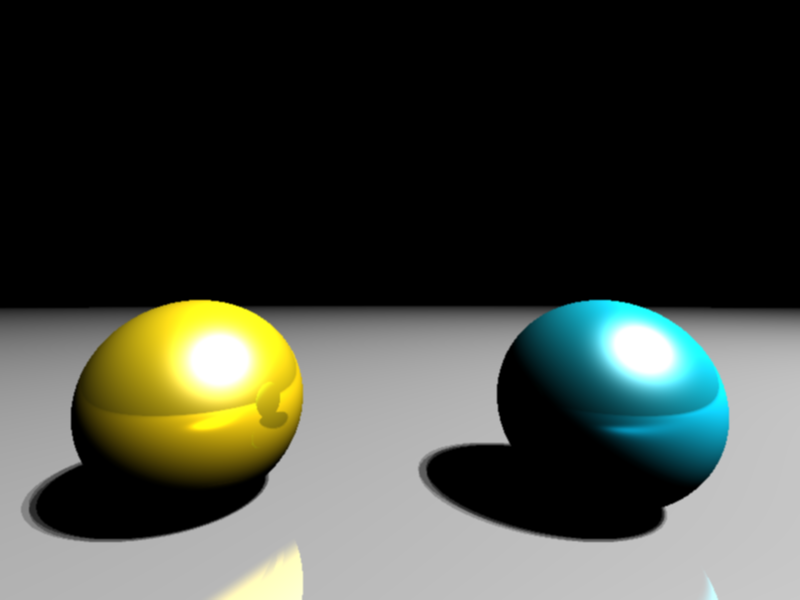
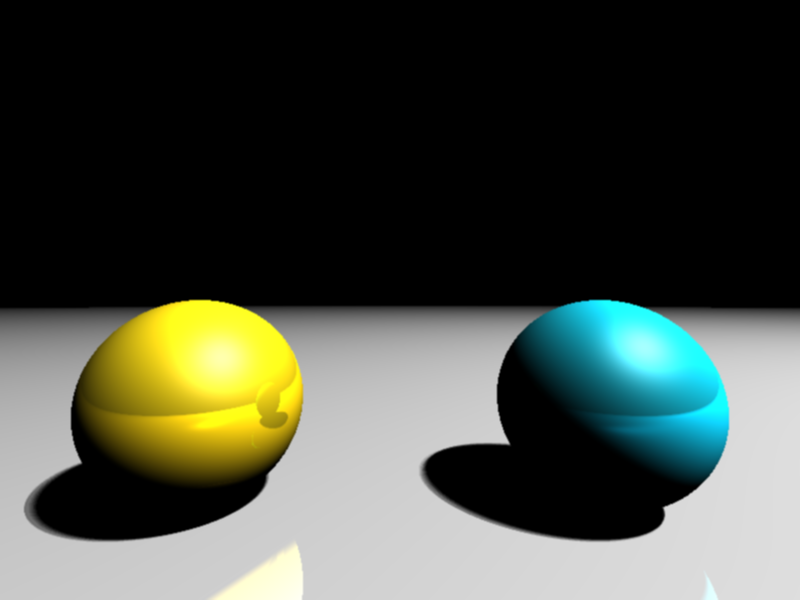
Made it slower

diff --git a/raytracing.py b/raytracing.py
@@ -57,10 +57,18 @@ objects = [
     { 'center': np.array([0, -9000, 0]), 'radius': 8999, 'ambient': np.array([0, 0, 0]), 'diffuse': np.array([0.6, 0.6, 0.6]), 'specular': np.array([1, 1, 1]), 'shininess': 100, 'reflection': 5 }
 ]
 #Declaes the lights in the scene.
-lights = [  { 'position': np.array([9.5,16,6.5]), 'ambient': np.array([0.1, 0.1, 0.1]), 'diffuse': np.array([0.5, 0.5, 0.5]), 'specular': np.array([1, 1, 1]) },
-            { 'position': np.array([10.5,16,5.5]), 'ambient': np.array([0.1, 0.1, 0.1]), 'diffuse': np.array([0.5, 0.5, 0.5]), 'specular': np.array([1, 1, 1]) },
-            { 'position': np.array([9.5,16,5.5]), 'ambient': np.array([0.1, 0.1, 0.1]), 'diffuse': np.array([0.5, 0.5, 0.5]), 'specular': np.array([1, 1, 1]) },
-            { 'position': np.array([10.5,16,6.5]), 'ambient': np.array([0.1, 0.1, 0.1]), 'diffuse': np.array([0.5, 0.5, 0.5]), 'specular': np.array([1, 1, 1]) },
+lights = [  { 'position': np.array([10.125,16,5.5]), 'ambient': np.array([0.125, 0.125, 0.125]), 'diffuse': np.array([0.25, 0.25, 0.25]), 'specular': np.array([0.125, 0.125, 0.125]) },
+            { 'position': np.array([10.25,16,5.625]), 'ambient': np.array([0.125, 0.125, 0.125]), 'diffuse': np.array([0.25, 0.25, 0.25]), 'specular': np.array([0.125, 0.125, 0.125]) },
+            { 'position': np.array([10.375,16,5.75]), 'ambient': np.array([0.125, 0.125, 0.125]), 'diffuse': np.array([0.25, 0.25, 0.25]), 'specular': np.array([0.125, 0.125, 0.125]) },
+            { 'position': np.array([10.5,16,5.875]), 'ambient': np.array([0.125, 0.125, 0.125]), 'diffuse': np.array([0.25, 0.25, 0.25]), 'specular': np.array([0.125, 0.125, 0.125]) },
+            { 'position': np.array([10,16,6]), 'ambient': np.array([0.125, 0.125, 0.125]), 'diffuse': np.array([0.25, 0.25, 0.25]), 'specular': np.array([0.125, 0.125, 0.125]) },
+            { 'position': np.array([9.875,16,6.125]), 'ambient': np.array([0.125, 0.125, 0.125]), 'diffuse': np.array([0.25, 0.25, 0.25]), 'specular': np.array([0.125, 0.125, 0.125]) },
+            { 'position': np.array([9.75,16,6.25]), 'ambient': np.array([0.125, 0.125, 0.125]), 'diffuse': np.array([0.25, 0.25, 0.25]), 'specular': np.array([0.125, 0.125, 0.125]) },
+            { 'position': np.array([9.625,16,6.375]), 'ambient': np.array([0.125, 0.125, 0.125]), 'diffuse': np.array([0.25, 0.25, 0.25]), 'specular': np.array([0.125, 0.125, 0.125]) },
+            { 'position': np.array([9.5,16,6.5]), 'ambient': np.array([0.125, 0.125, 0.125]), 'diffuse': np.array([0.25, 0.25, 0.25]), 'specular': np.array([0.125, 0.125, 0.125]) }
+        
+        
+        
         ]
 #Main RayTracing loop.
 image = np.zeros((height,width,3))
